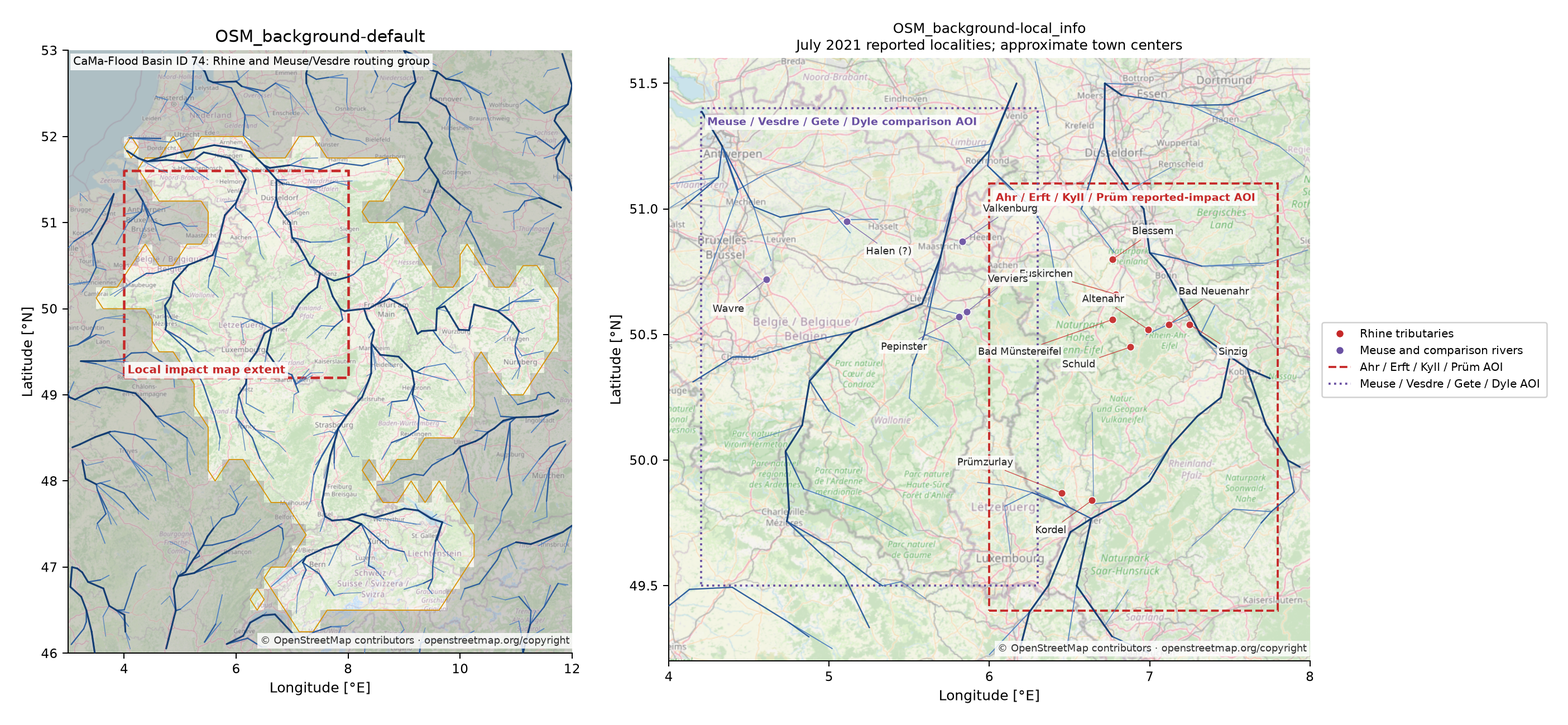
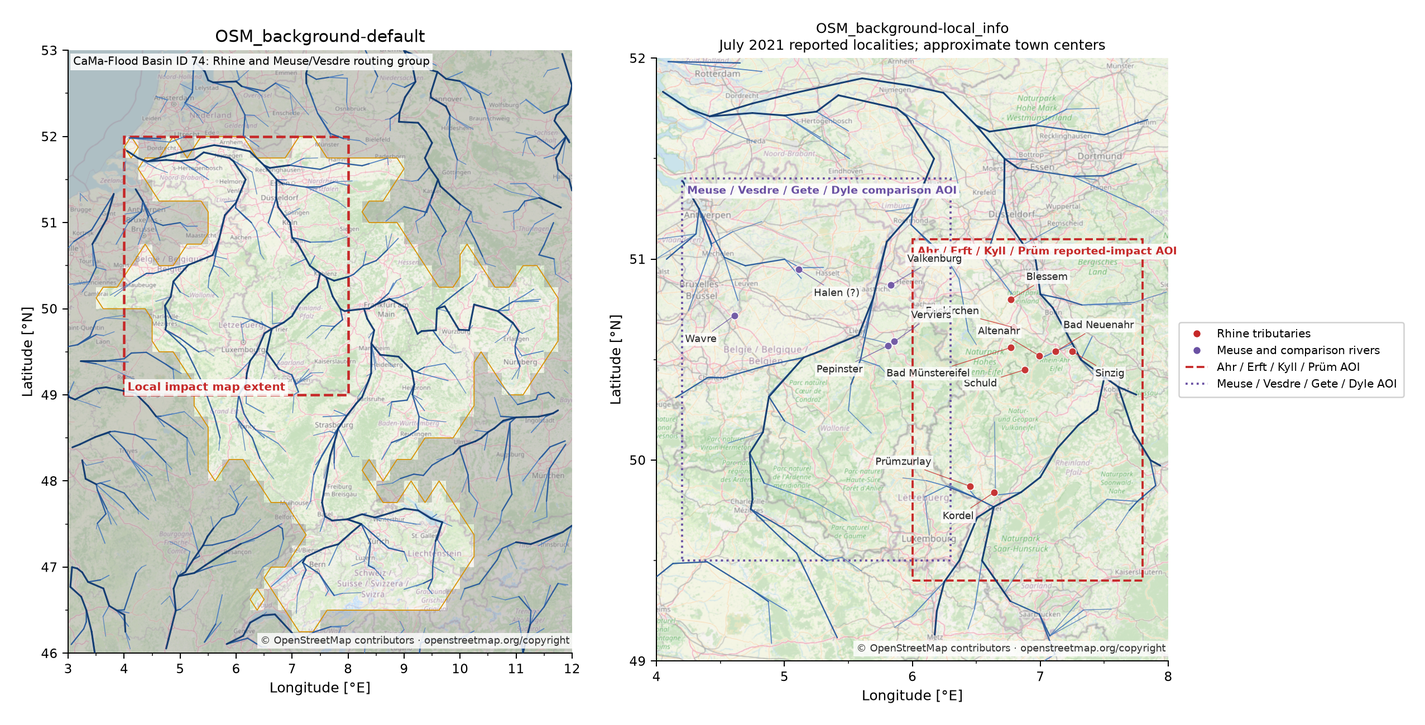
Adjust f06 extents and geographic ticks

diff --git a/visualization/river_map/script/f06_common.py b/visualization/river_map/script/f06_common.py
@@ -149,9 +149,12 @@ def format_axes(ax, extent, x_interval: float, y_interval: float):
     ax.set_aspect(1.0 / math.cos(math.radians((south + north) / 2.0)))
     ax.xaxis.set_major_locator(MultipleLocator(x_interval))
     ax.yaxis.set_major_locator(MultipleLocator(y_interval))
+    ax.xaxis.set_minor_locator(MultipleLocator(0.5))
+    ax.yaxis.set_minor_locator(MultipleLocator(0.5))
     ax.set_xlabel("Longitude [°E]")
     ax.set_ylabel("Latitude [°N]")
-    ax.tick_params(direction="out", length=4, labelsize=9)
+    ax.tick_params(which="major", direction="out", length=4, labelsize=9)
+    ax.tick_params(which="minor", direction="out", length=2)
     ax.spines["top"].set_visible(False)
     ax.spines["right"].set_visible(False)
 

diff --git a/visualization/river_map/README.md b/visualization/river_map/README.md
@@ -32,7 +32,7 @@ method.
 - **f06a — OSM_background-default:** Basin ID 74 and its CaMa-Flood routed
   network, with the f06b extent marked. Basin ID 74 combines Rhine and
   Meuse/Vesdre model routing; it is not a pure natural Rhine watershed.
-- **f06b — OSM_background-local_info:** zoom to 4.0–8.0°E, 49.2–51.6°N,
+- **f06b — OSM_background-local_info:** zoom to 4.0–8.0°E, 49.0–52.0°N,
   with Tutorial 11 report-based localities and two candidate observation
   domains. The boxes are candidate AOIs, not measured flood boundaries. Town
   coordinates are approximate; Halen has lower coordinate confidence.
@@ -54,7 +54,8 @@ folder. The OSM background is rendered with alpha 0.72 / 0.68 and a small white
 blend (0.08 / 0.10); the f06a basin-exterior gray veil uses alpha 0.36 so the
 OSM context remains visible while the CaMa-Flood network stays prominent. If
 OSM is unavailable, both panels still render the map overlays and river
-network. OpenStreetMap is credited on both panels.
+network. Both panels label each 1° major tick and also show 0.5° minor
+ticks. OpenStreetMap is credited on both panels.
 
 Event-specific plotting settings are in
 [`data/f06_settings.json`](data/f06_settings.json); localities and AOI extents

diff --git a/visualization/river_map/data/README.md b/visualization/river_map/data/README.md
@@ -9,9 +9,8 @@ outside the drawing code.
   than silently writing a substitute.
 - `f06b_zoomup.csv` stores the f06b extent and two candidate observation
   domains documented in `../../../tutorial/tutorial11-event_evaluation/evaluation_domain.md`.
-  The f06b extent (4.0–8.0°E, 49.2–51.6°N) is the union of those domains with a
-  0.2° margin. The regional rectangles are candidate observation AOIs, not
-  observed flood boundaries.
+  The f06b extent is 4.0–8.0°E, 49.0–52.0°N. The regional rectangles are
+  candidate observation AOIs, not observed flood boundaries.
 - `f06b_plot.csv` copies report-based localities and source notes from
   `../../../tutorial/tutorial11-event_evaluation/impact_locations.csv`, adding
   short plot labels, symbol groups and label offsets. Coordinates identify

diff --git a/tutorial/tutorial11-event_evaluation/development_log.md b/tutorial/tutorial11-event_evaluation/development_log.md
@@ -326,3 +326,11 @@ registration while retaining the image file as an untouched local change.
 The AOI boxes are candidates, not observed inundation extents; locality points
 are approximate town centers. OSM rendering uses its existing graceful
 fallback. No hydrologic interpretation or model data were changed.
+
+
+## 2026-11-21 — Adjust f06 map extent and geographic ticks
+
+Set the f06b local-information extent to 4–8°E, 49–52°N. Both f06 panels
+now use 1° labeled major ticks and 0.5° unlabeled minor ticks for longitude
+and latitude. The f06a zoom rectangle reads the same extent from the existing
+external CSV. The change affects map presentation only.
